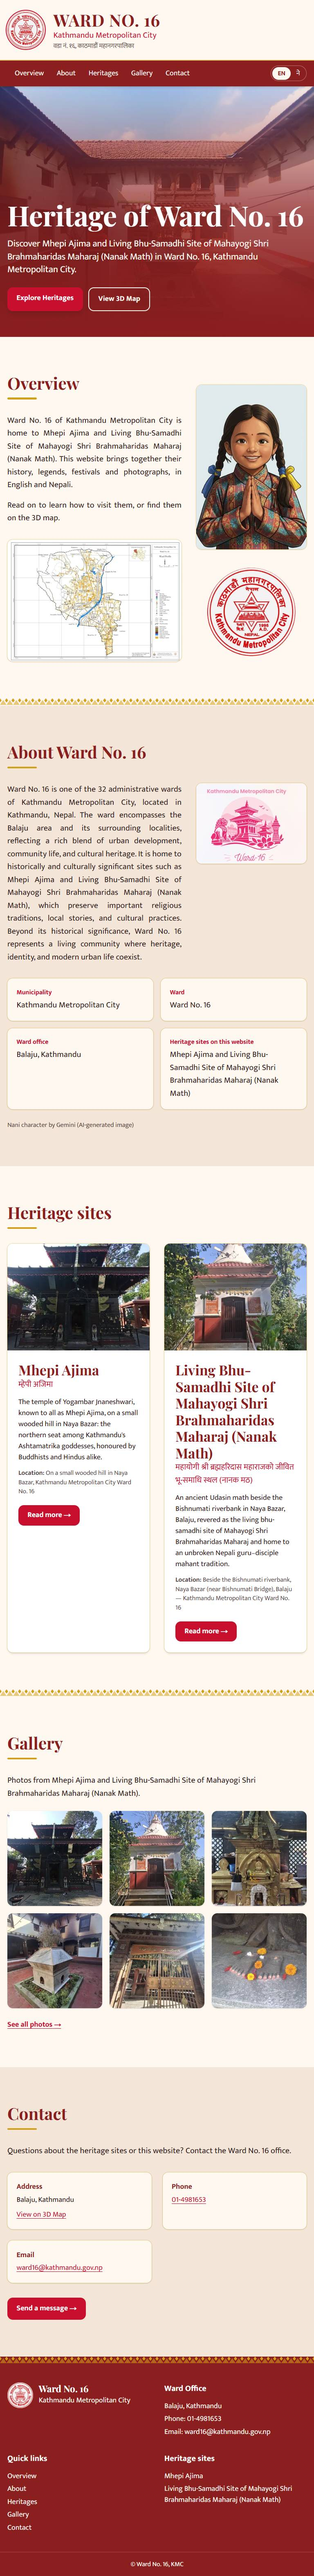
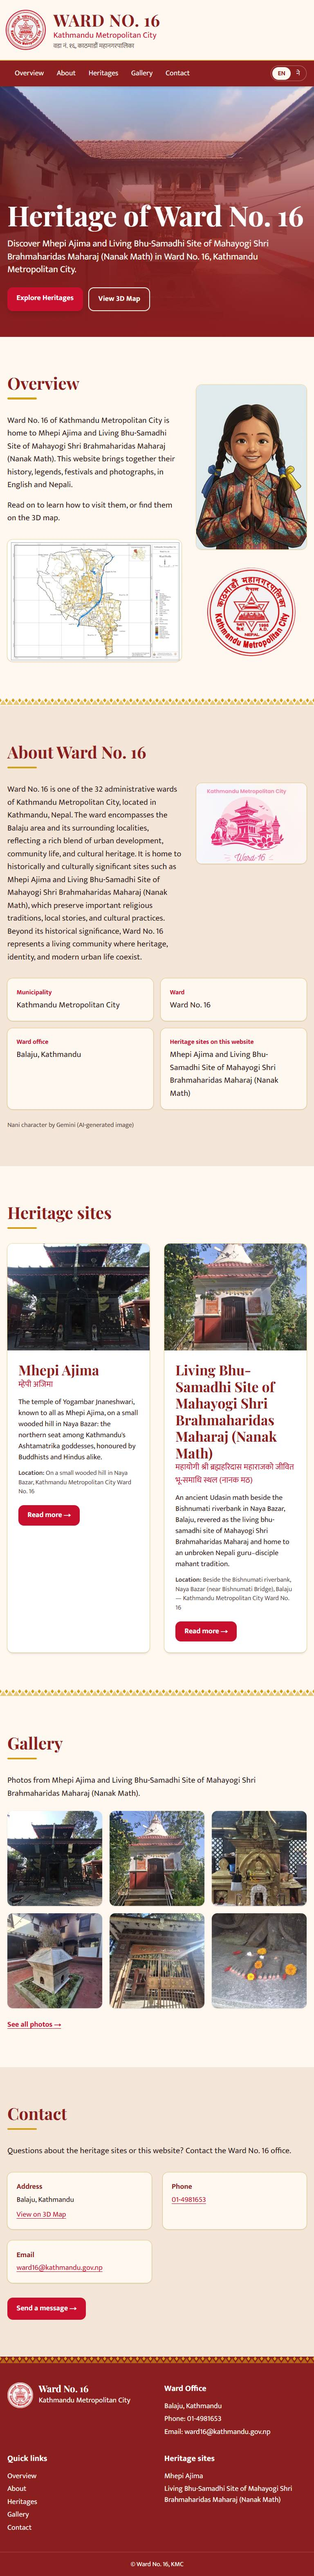
Justify from 1024 px (lg) instead of 768 px; screenshots and gaps at 4 widths
Phones and tablets stay left-aligned. Checks and screenshots at 375, 768,
1024 and 1440 px, EN + NE; gap measurements in docs/screenshots/justify/.

Changed region(s): [[0.0938, 0.3115, 0.5938, 0.3737], [0.0938, 0.1557, 0.5625, 0.1869]]

diff --git a/src/app/globals.css b/src/app/globals.css
@@ -309,11 +309,12 @@
  * English breaks long words with hyphens (<html lang="en">) so lines have no big gaps; browsers have
  * no Nepali hyphenation, so Nepali text is justified without it.
  *
- * ONE SETTING — which version is live:
+ * ONE SETTING — where justifying starts (chosen: version B, from Tailwind's lg breakpoint, 1024 px, so
+ * phones and tablets stay left-aligned; narrower columns get large word gaps, especially in Nepali):
+ *   Version B, justified from 1024 px:   @media (width >= 64rem) {
  *   Version A, justified at all widths:  @media all {
- *   Version B, justified from 768 px:    @media (width >= 48rem) {
  */
-@media (width >= 48rem) {
+@media (width >= 64rem) {
   .justified,
   .heritage-prose > p,
   .heritage-prose .item-desc,

diff --git a/docs/screenshots/justify/README.md b/docs/screenshots/justify/README.md
@@ -1,57 +1,76 @@
-# Justified text: version A vs version B
+# Justified text (from 1024 px)
 
 Captured on 17 Nov 2026 in Microsoft Edge (headless) from the strict `npm run build`, branch `feat/justify-text`. The floating buttons and the sticky bar are hidden so they don't cover the text.
 
-- **Version A:** justified at all widths.
-- **Version B:** justified from 768 px, left-aligned on phones. This is the default.
+**Chosen: version B, starting at 1024 px** (Tailwind's `lg` breakpoint). Running paragraphs are justified from 1024 px. Phones and tablets (375 and 768 px) stay left-aligned.
 
 The switch is one line in `src/app/globals.css`, just under the comment "ONE SETTING":
-`@media (width >= 48rem) {` for B, `@media all {` for A.
+- `@media (width >= 64rem) {` is live: justified from 1024 px.
+- `@media all {` would justify at every width (version A, not chosen).
 
-| File | What it shows |
+| File | Width |
 |---|---|
-| `<page>-<lang>-375-A.jpg`, `<page>-<lang>-375-B.jpg` | Phones: version A (justified) next to version B (left-aligned) |
-| `<page>-<lang>-768.jpg`, `<page>-<lang>-1440.jpg` | Tablet and desktop: justified in both versions, so one picture each |
+| `<page>-<lang>-375.jpg` | Phone: left-aligned |
+| `<page>-<lang>-768.jpg` | Tablet: left-aligned |
+| `<page>-<lang>-1024.jpg` | Small laptop: justified |
+| `<page>-<lang>-1440.jpg` | Desktop: justified |
 
 Pages: `home`, `nanak-math`, `mhepi-ajima`. Languages: `en`, `ne`.
 
 ## What is justified
 
-- Running paragraphs on the heritage pages and the photo descriptions in the heritage list.
-- The Overview and About text on the home page.
-- The place panel text on the 3D map.
+From 1024 px:
+- running paragraphs on the heritage pages and the photo descriptions in the heritage list;
+- the Overview and About text on the home page;
+- the place panel text on the 3D map.
 
-The last line of each paragraph stays left-aligned. Headings, lists, captions, buttons, nav, footer, the chatbot and the cards are not justified. English uses `hyphens: auto`; Nepali has no hyphenation, because browsers don't support it.
+The last line of each paragraph stays left-aligned. Headings, lists, captions, buttons, nav, footer, the chatbot and the cards are never justified. English uses `hyphens: auto`; Nepali has no hyphenation, because browsers don't support it.
 
 ## Browser checks
 
-108 of 108 checks pass for both versions, EN and NE, at 375, 768 and 1440 px on the three pages. They check that:
-- the right paragraphs are justified, or left-aligned on phones in B;
+72 of 72 checks pass, EN and NE, at 375, 768, 1024 and 1440 px, on the three pages. They check that:
+- paragraphs are left-aligned below 1024 px and justified from 1024 px;
 - the last line stays left;
 - English hyphenates and Nepali doesn't;
 - headings, lists, nav, footer, buttons and captions are never justified.
 
-## Large word gaps (3× a normal space or more)
+## Word gaps of 2.5× a normal space or more
 
-**Note:** the test browser (headless Edge on Windows) has no hyphenation dictionary, so these English results are with no hyphenation. Phones (Chrome on Android, Safari on iPhone) hyphenate English, so English gaps there will be smaller. Nepali never hyphenates, so its gaps are as measured.
+**Note:** the test browser (headless Edge on Windows) has no hyphenation dictionary, so these English results are with no hyphenation. Desktop Chrome, Edge and Safari download a dictionary and hyphenate English, so English gaps there will be smaller. Nepali never hyphenates, so its gaps are as measured.
 
-**Phones, version A (375 px):** most paragraphs have gaps of 3–6×. The worst:
-- EN Mhepi Ajima, "The temple is looked after by the Mhepi Conservation and Management Committee (…)": 10.3×. The long Nepali name in brackets can't break.
-- EN home, About ("Ward No. 16 is one of the 32 administrative wards…"): 8.9×.
-- EN Nanak Math, "The math is run and managed by its mahant…": 8.7×.
-- EN Mhepi Ajima, "Buddhists and Hindus both worship here…": 7.7×.
-- NE Nanak Math, "महायोगी श्री ब्रह्महरिदासजी महाराजको परिसरभित्र पूर्वी भागमा…": 6.3×.
-- NE Mhepi Ajima, "पुरोहितका अनुसार अष्टमातृकामध्ये म्हेपी उत्तर दिशामा पर्छ…": 5.8×.
+### 1024 px
 
-**Version B on phones:** none, because the text is left-aligned.
+The largest gaps are in the heritage list descriptions. Next to their photos, those columns are only about 60% of the text width:
+- EN Nanak Math, "Image of Sankatmochan Siddha Hanuman at the foot of the peepal…" (list item): **7.3×**
+- EN Nanak Math, "The Nandeshwar Mahadev temple, Shivalaya and Nandi statue…" (list item): **5.4×**
+- NE Nanak Math, "झिँगटीको छाना भएका परम्परागत दुई तले भवनहरूले घेरिएको मठको चोक…" (list item): **4.1×**
+- EN Nanak Math, "Courtyard of the math enclosed by traditional two-storey buildings…" (list item): 3.6×
 
-**768 px (both versions):**
-- EN home About: 4.9×.
-- EN Nanak Math, "The living bhu-samadhi temple…" (a heritage list description beside its photo): 4.6×.
-- NE home About: 3.9×.
-- EN home Overview: 3.0×.
-- EN Nanak Math, "The Vishnu Panchayatan temple…": 3.1×.
+Running paragraphs:
+- EN Nanak Math, "In VS 1450 Mahayogi Shri Brahmaharidas Ji Maharaj came to the…": **4.0×**
+- NE Nanak Math, "यस मठमा प्राचीनकालदेखि नै नेपाली गुरु शिष्य परम्पराका…": 3.3×
+- NE Nanak Math, "विष्णु पञ्चायतन देवता र ग्रन्थहरूको पूजा, पाठ…": 3.1×
+- EN Nanak Math, "According to the math, it has existed since ancient times…": 3.0×
+- NE Nanak Math, "साधुसन्तको तपस्थलीका रूपमा प्राचीनकालदेखि रहिआएको…": 2.9×
+- EN Nanak Math: "The guru–disciple tradition…", "A maharaj who lives here performing havan…" (list item), "The living bhu-samadhi temple…" (list item), "The math is run and managed…" (2.6–2.8×)
+- EN home, About ("Ward No. 16 is one of the 32 administrative wards…"): 2.8×
+- NE Mhepi Ajima, "मन्दिर सानो वनयुक्त थुम्को माथि छ…": 2.8×
+- EN Mhepi Ajima, "No historical documents about the temple…": 2.7×
+- EN Mhepi Ajima, "The temple bhajan…": 2.5×
+- NE Mhepi Ajima, "यहाँ बौद्ध र हिन्दु दुवै धर्मावलम्बी…": 2.5×
+- EN Nanak Math, "Puja and readings for the Vishnu Panchayatan deities…": 2.5×
 
-**1440 px:** no paragraph reaches 3×.
+### 1440 px
 
-**Recommendation:** use version B. Phone columns are too narrow for even spacing, especially in Nepali.
+- EN Nanak Math, "The living bhu-samadhi temple…" (list item): 2.8×
+- EN Nanak Math, "Paddy, wheat, maize, greens and vegetables…": 2.5×
+
+No Nepali paragraph reaches 2.5× at 1440 px.
+
+### 375 and 768 px
+
+None: the text is left-aligned at these widths.
+
+For comparison, the earlier run with justifying from 768 px measured up to 4.9× at 768 px. Justifying at every width measured up to 10× on phones.
+
+**If the list gaps at 1024 px bother you:** one more line in the CSS could keep the heritage list descriptions (`.heritage-prose .item-desc`) left-aligned until 1280 px. It isn't done here.

diff --git a/CLAUDE.md b/CLAUDE.md
@@ -30,7 +30,7 @@
 - Links to the home page use prefetch={false}, so other pages do not preload the home hero image.
 - Pin new npm packages to a release at least two weeks old (--save-exact).
 - Chatbot: tap-only (topic → question → answer), no typing and no search library. Topics and answers live only in content/faq.json (EN + NE). Topics are generated: "Visiting {site}" and "About {site}" per visible site (`topic: "visit" | "about"` + `site`), then the fixed topics; `site` drops a draft site's answers; `topic: null` = related-only. `priority` orders questions within a topic; `suggestions` are the opening quick questions; `directions: true` adds a "View on 3D Map" link for the site (with the approximate note when flagged). Questions are short and plain ("How do I get there?"). Never add a name or fact without a source (e.g. "Siddheshwar Mahadev" is waiting for one). Answers may use {sites} {address} {phone} {email} {team}; links are language-less paths whose #anchors are checked at build. Every option is a real <button>, with "My question isn't here" last in every list (its reply links the ward phone and email, then offers only "← Back to topics"). The chat must make no network requests: no prefetch on its links.
-- Justified text: only running paragraphs (`.justified`, `.heritage-prose > p`, `.heritage-prose .item-desc`, `.map-detail-prose > p`), last line left, English `hyphens: auto`. The one switch is the `@media` line under "ONE SETTING" in globals.css: `(width >= 48rem)` = version B (left-aligned on phones, default), `all` = version A.
+- Justified text: only running paragraphs (`.justified`, `.heritage-prose > p`, `.heritage-prose .item-desc`, `.map-detail-prose > p`), last line left, English `hyphens: auto`. Justified only from 1024 px (lg); phones and tablets stay left-aligned. The one switch is the `@media` line under "ONE SETTING" in globals.css: `(width >= 64rem)` (chosen), `all` = justified everywhere.
 - useEffect bodies must be blocks, never `() => el.method()`: some browsers return Promises from DOM methods (e.g. scrollIntoView) and React then crashes.
 - Floating buttons: Nani/chatbot bottom-RIGHT, 3D Map bottom-LEFT (swapped from the sketch on 14 Nov 2026). Side offsets are `max(gap, env(safe-area-inset-…))`; the chat panel opens above Nani, growing up and to the left.
 - Nani (chatbot guide): the floating button is the 56 px round face on every page; only hovering over it with a mouse shows the big half-body cut-out (nani-figure-*.webp, 130 px below md / 260 px from md, gentle CSS sway, off under reduced motion) and her speech bubble (not while the chat is open). Touch screens never show or download the big figure; the chat header and message avatars use the round face via <NaniAvatar>. All are built by optimize-images. Avatars beside messages are static with alt="" (the sr-only "Nani:" prefix names her).
